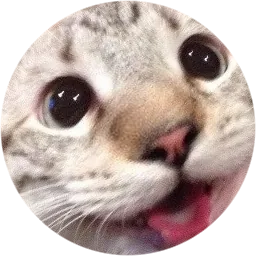
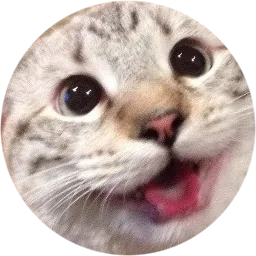
Memories: new Curious, Bored, Surprised and Playful cats; bigger balls, zoomed-out faces, softer tint and shine

diff --git a/memories.html b/memories.html
@@ -171,7 +171,7 @@
   }
   .moods {
     display: grid;
-    grid-template-columns: repeat(6, minmax(0, 84px));
+    grid-template-columns: repeat(6, minmax(0, 90px));
     gap: 6px;
     align-items: start;
   }
@@ -191,8 +191,8 @@
   /* Each picker marble is drawn on a canvas (same look as the falling ones); CSS adds the glow. */
   .orb {
     display: block;
-    width: 64px;
-    height: 64px;
+    width: 72px;
+    height: 72px;
     border-radius: 50%;
     box-shadow: 0 0 14px 2px color-mix(in srgb, var(--c) 55%, transparent);
     transition: transform 0.15s ease, box-shadow 0.15s ease;
@@ -216,15 +216,15 @@
     position: relative;
     display: grid;
     place-items: center;
-    width: 64px;
-    height: 64px;
+    width: 72px;
+    height: 72px;
     border-radius: 50%;
     box-sizing: border-box;
     border: 2px dashed var(--muted);
     transition: transform 0.15s ease;
   }
   .more .plus { font: 600 1.9rem/1 var(--font-display); color: var(--muted); }
-  .more .ring .orb { position: absolute; inset: -2px; width: 64px; height: 64px; }
+  .more .ring .orb { position: absolute; inset: -2px; width: 72px; height: 72px; }
   .more[aria-pressed="true"] .ring { border-color: transparent; }
   .more[aria-pressed="true"] .orb { transform: translateY(-3px) scale(1.12); box-shadow: 0 0 26px 8px color-mix(in srgb, var(--c) 75%, transparent); }
   .more:hover .ring { transform: translateY(-2px); }
@@ -279,7 +279,7 @@
     gap: 14px 8px;
     padding: 8px 16px 24px;
   }
-  .panel-list .orb { width: 84px; height: 84px; }
+  .panel-list .orb { width: 96px; height: 96px; }
   .panel-list .label { font-size: 0.78rem; }
 
   .count {
@@ -317,7 +317,7 @@
   @media (max-width: 760px) {
     .dock { width: 100%; }
     .moods { grid-template-columns: repeat(6, minmax(0, 1fr)); width: 100%; gap: 2px; }
-    .moods .orb, .more .ring, .more .ring .orb { width: 48px; height: 48px; }
+    .moods .orb, .more .ring, .more .ring .orb { width: 54px; height: 54px; }
     .moods .label { font-size: 0.56rem; }
   }
   @media (max-width: 480px) {
@@ -378,7 +378,7 @@
   // A drop is a tap position plus a seed. Settling a marble uses only that seed
   // and plain arithmetic (+ - * / sqrt), so all screens agree to the last digit.
   const GW = 480, GH = 300;      // shared world, in world units
-  const R = 16;                  // marble radius
+  const R = 18;                  // marble radius
   const D = R * 2, D2 = D * D;
   const G = 0.25;                // gravity per step (one step = 1/60 s)
   const VMAX = 9;
@@ -393,7 +393,7 @@
   // Cat memories. The array index is what drops store, so existing entries keep their
   // place and new ones go on the end.
   const MOODS = [
-    { name: 'Curious',  hex: '#ff7a59', img: 'images/cat-happy.webp' },
+    { name: 'Curious',  hex: '#ff7a59', img: 'images/cat-curious.webp' },
     { name: 'Angry',    hex: '#f92d35', img: 'images/cat-angry.webp' },
     { name: 'Sad',      hex: '#3d7cc9', img: 'images/cat-sad.webp' },
     { name: 'Happy',    hex: '#ffc21a', img: 'images/cat-happy2.webp' },
@@ -404,9 +404,12 @@
     { name: 'Hungry',   hex: '#f15bb5', img: 'images/cat-hungry.webp' },
     { name: 'Silly',    hex: '#90be6d', img: 'images/cat-silly.webp' },
     { name: 'Upset',    hex: '#577590', img: 'images/cat-upset.webp' },
+    { name: 'Bored',    hex: '#b5838d', img: 'images/cat-bored.webp' },
+    { name: 'Surprised', hex: '#06d6a0', img: 'images/cat-surprised.webp' },
+    { name: 'Playful',  hex: '#4cc9f0', img: 'images/cat-playful.webp' },
   ];
   const PICKER = [3, 2, 4, 6, 5];          // main row: Happy, Sad, Scared, Confused, Calm
-  const MORE = [1, 7, 0, 8, 9, 10];        // side panel: the rest
+  const MORE = [1, 7, 0, 12, 11, 8, 9, 13, 10];   // side panel: the rest
 
   const $ = id => document.getElementById(id);
   const canvas = $('world'), ctx = canvas.getContext('2d');
@@ -680,7 +683,7 @@
     const m = MOODS[idx], rgb = hexRgb(m.hex), img = catImages[idx];
     if (glow) {
       g.save();
-      g.shadowColor = 'rgba(' + rgb.join(',') + ',0.85)';
+      g.shadowColor = 'rgba(' + rgb.join(',') + ',0.7)';
       g.shadowBlur = glow;
       g.fillStyle = 'rgba(' + rgb.join(',') + ',0.6)';
       g.beginPath(); g.arc(0, 0, pr * 0.96, 0, Math.PI * 2); g.fill();
@@ -709,47 +712,47 @@
     if (img.complete && img.naturalWidth) {
       if ('filter' in g) g.filter = 'blur(' + Math.max(0.25, pr * 0.012).toFixed(2) + 'px)';
       g.globalAlpha = 1;
-      g.drawImage(img, -pr * 1.04, -pr * 1.04, pr * 2.08, pr * 2.08);
+      g.drawImage(img, -pr, -pr, pr * 2, pr * 2);
       if ('filter' in g) g.filter = 'none';
     }
     // tint: a wash of the feeling's colour over the memory
-    g.globalAlpha = 0.22;
+    g.globalAlpha = 0.13;
     g.globalCompositeOperation = 'multiply';
     g.fillStyle = m.hex;
     g.fillRect(-pr, -pr, pr * 2, pr * 2);
     g.globalCompositeOperation = 'screen';
-    g.globalAlpha = 0.1;
+    g.globalAlpha = 0.06;
     g.fillRect(-pr, -pr, pr * 2, pr * 2);
     g.globalCompositeOperation = 'source-over';
     // glass depth: clear in the middle, coloured and darker toward the edge
     g.globalAlpha = 1;
     const depth = g.createRadialGradient(-pr * 0.1, -pr * 0.15, pr * 0.55, 0, 0, pr);
     depth.addColorStop(0, 'rgba(' + rgb.join(',') + ',0)');
-    depth.addColorStop(0.75, 'rgba(' + rgb.join(',') + ',0.25)');
-    depth.addColorStop(1, mix(rgb, [0, 0, 0], 0.35).replace('rgb', 'rgba').replace(')', ',0.7)'));
+    depth.addColorStop(0.75, 'rgba(' + rgb.join(',') + ',0.12)');
+    depth.addColorStop(1, mix(rgb, [0, 0, 0], 0.3).replace('rgb', 'rgba').replace(')', ',0.45)'));
     g.fillStyle = depth;
     g.fillRect(-pr, -pr, pr * 2, pr * 2);
     // a soft haze across the top, like light inside the glass
     const haze = g.createLinearGradient(0, -pr, 0, pr * 0.2);
-    haze.addColorStop(0, 'rgba(255,255,255,0.18)');
+    haze.addColorStop(0, 'rgba(255,255,255,0.1)');
     haze.addColorStop(1, 'rgba(255,255,255,0)');
     g.fillStyle = haze;
     g.fillRect(-pr, -pr, pr * 2, pr * 2);
     g.restore();
     }
     // rim light and glints
-    g.strokeStyle = 'rgba(255,255,255,0.4)';
+    g.strokeStyle = 'rgba(255,255,255,0.28)';
     g.lineWidth = Math.max(1, pr * 0.06);
     g.beginPath(); g.arc(0, 0, pr * 0.96, 0, Math.PI * 2); g.stroke();
     g.save();
     g.rotate(-0.55);
     const glint = g.createRadialGradient(-pr * 0.05, -pr * 0.66, 0, -pr * 0.05, -pr * 0.66, pr * 0.34);
-    glint.addColorStop(0, 'rgba(255,255,255,0.8)');
+    glint.addColorStop(0, 'rgba(255,255,255,0.55)');
     glint.addColorStop(1, 'rgba(255,255,255,0)');
     g.fillStyle = glint;
     g.beginPath(); g.ellipse(-pr * 0.05, -pr * 0.66, pr * 0.34, pr * 0.16, 0, 0, Math.PI * 2); g.fill();
     g.restore();
-    g.fillStyle = 'rgba(255,255,255,0.35)';
+    g.fillStyle = 'rgba(255,255,255,0.22)';
     g.beginPath(); g.arc(pr * 0.45, pr * 0.5, pr * 0.09, 0, Math.PI * 2); g.fill();
   }
 

diff --git a/CLAUDE.md b/CLAUDE.md
@@ -23,7 +23,7 @@ To go back to a version, restore its files onto `main` with a new commit (`git c
 
 ## Memories experiment (`memories.html`)
 
-Glowing cat-memory marbles instead of sand. Eleven cat balls, each tinted its own colour: a main row of five (`PICKER`: Happy, Sad, Scared, Confused, Calm) plus a More button that opens a scrollable side panel with the rest (`MORE`: Angry, Excited, Curious, Hungry, Silly, Upset). `MOODS` index is the colour id stored in drops, so never reorder or remove entries; add new ones at the end. Cat photos live in `images/cat-*.webp` (face cropped, bulged like seen through glass, cut to a circle; tint, edge shading and glints are drawn in `paintMarble`). Calm uses the sleeping kitten because the user's preferred calm photos were watermarked. Drawn faces (`faceSvg`) remain available for any marble without a photo. Never use watermarked stock photos (Adobe Stock, Shutterstock, etc.) on the public site. Same modes (`memories.html#play`, `#display`, `#teacher-CODE`). Same sync design: ordered drop log, commit horizon, checkpoints and rollback. Marble settling (`settle`) must stay deterministic like sand placement: seeded `rng32`, plain arithmetic and `Math.sqrt` only. Settled marbles never move; each new one falls, bounces and rolls until it rests. Radius 16; the box holds about 140 marbles.
+Glowing cat-memory marbles instead of sand. Fourteen cat balls, each tinted its own colour: a main row of five (`PICKER`: Happy, Sad, Scared, Confused, Calm) plus a More button that opens a scrollable side panel with the rest (`MORE`: Angry, Excited, Curious, Surprised, Bored, Hungry, Silly, Playful, Upset). `MOODS` index is the colour id stored in drops, so never reorder or remove entries; add new ones at the end. Cat photos live in `images/cat-*.webp` (face cropped, bulged like seen through glass, cut to a circle; tint, edge shading and glints are drawn in `paintMarble`). Calm uses the sleeping kitten because the user's preferred calm photos were watermarked. Drawn faces (`faceSvg`) remain available for any marble without a photo. Never use watermarked stock photos (Adobe Stock, Shutterstock, etc.), product photos, or professional photos of trademarked celebrity pets (e.g. Grumpy Cat) on the public site. Same modes (`memories.html#play`, `#display`, `#teacher-CODE`). Same sync design: ordered drop log, commit horizon, checkpoints and rollback. Marble settling (`settle`) must stay deterministic like sand placement: seeded `rng32`, plain arithmetic and `Math.sqrt` only. Settled marbles never move; each new one falls, bounces and rolls until it rests. Radius 18; the box holds about 110 marbles.
 
 Its drops live in Firebase at `pours/c<gen>` (the earlier nine-colour marble test used `pours/m<gen>`) and its screens report modes `mplay`/`mdisplay`, so it works under the existing rules. Both pages share `state/gen`, so Start fresh on either page clears both.
 
